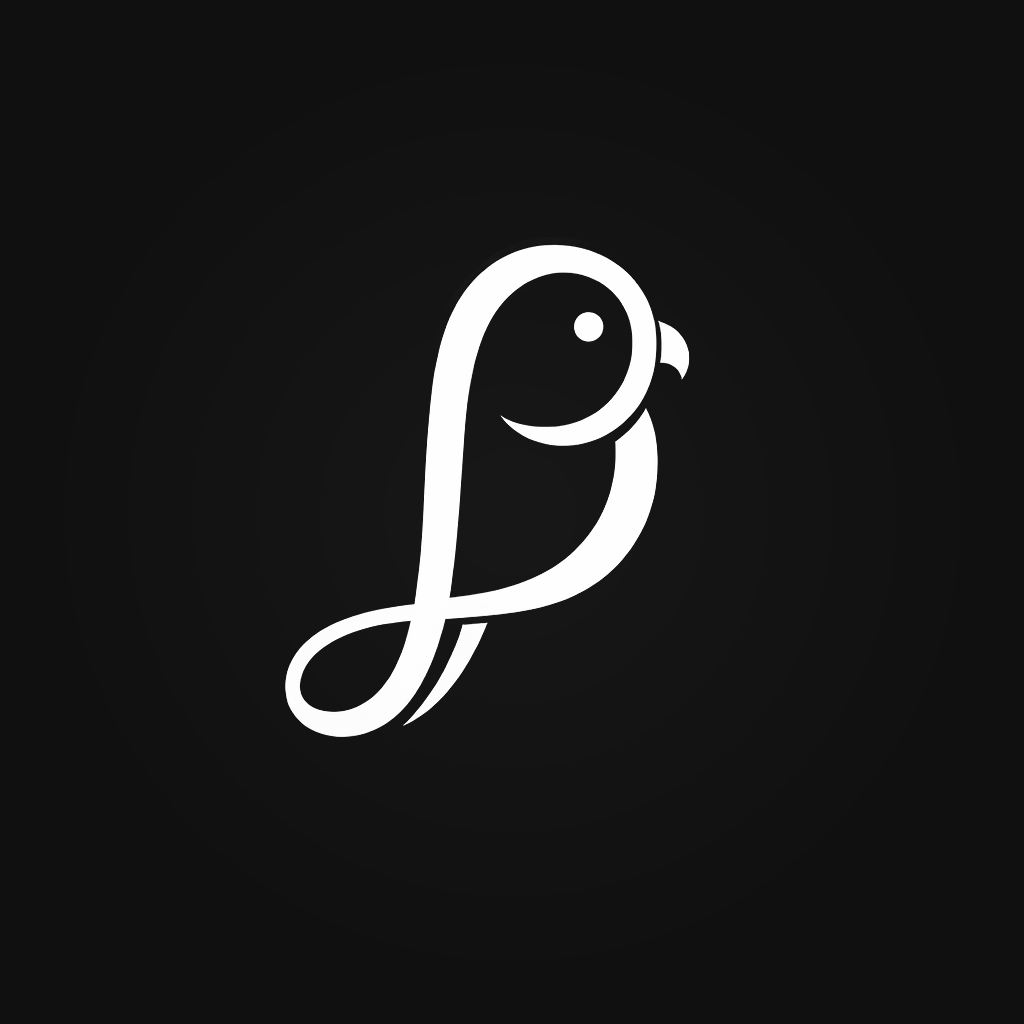
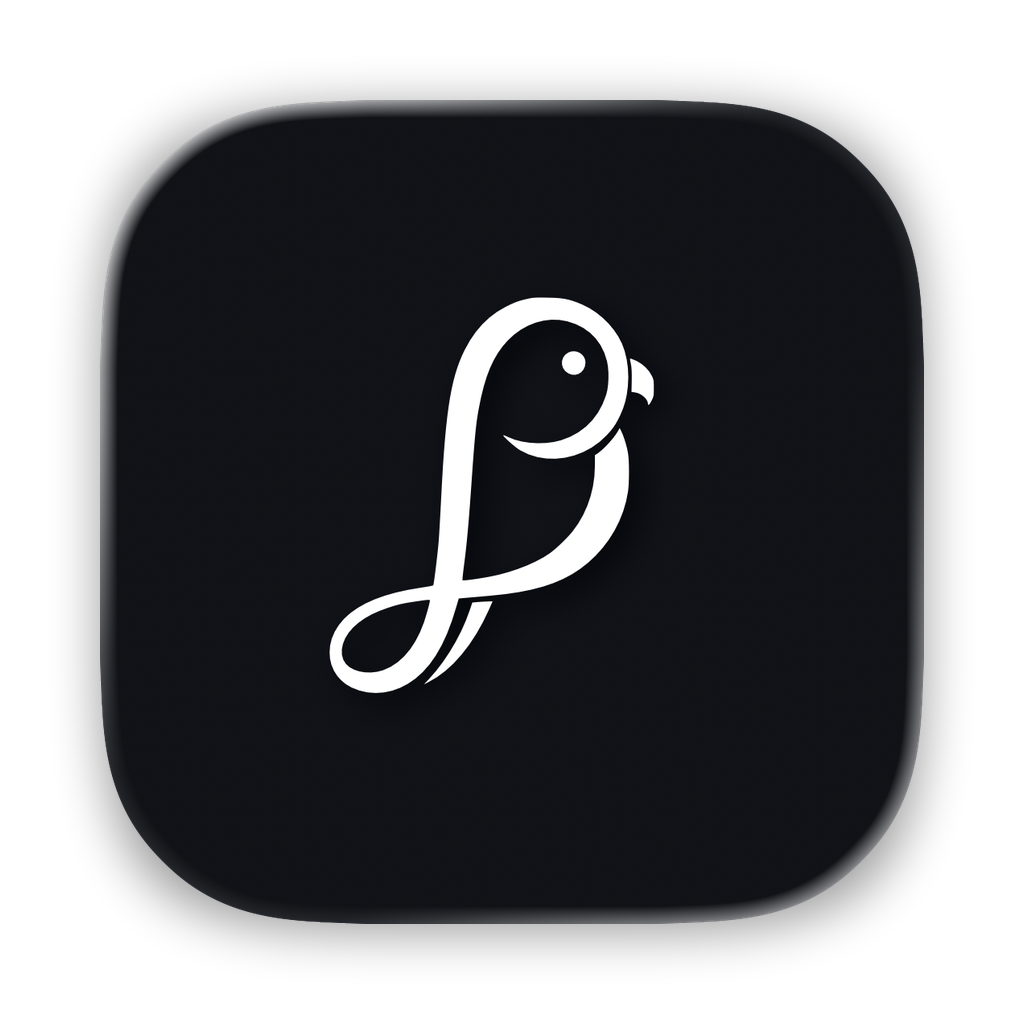
Replace AppIcon with squircled version
Regenerate the macOS app icon with transparent squircle padding, add the Icon Composer source bundle, and clarify the app-icon versus reusable-mark asset provenance.

Pull request: Replace AppIcon with squircled version, add .icon source
Quick context: the current AppIcon shows up too big in the Dock and Cmd+Tab and has square corners, while every other app has the standard rounded squircle. The file in the repo ships as RGB without alpha and without the macOS squircle baked into the artwork, so macOS does not clip or pad it.

<!-- drag the before/after screenshot here -->

I regenerated the icon with Icon Composer using the existing `parakeet-line` mark on Ink. The new `.icns` has the squircle and padding baked in, RGBA with alpha, and matches the size of other standard apps.

### What's in this PR

* `brand-assets/marks/AppIcon.icon/` is the Icon Composer source bundle, kept next to `parakeet-line.svg`. New source of truth for the app icon.
* `Assets/AppIcon.icns` is the regenerated squircled icon. `scripts/dist/build_app_bundle.sh` keeps copying it unchanged, so the build pipeline is untouched.
* `Assets/AppIcon-1024x1024.png` is the matching source PNG with alpha.

### Regenerating later

**With Xcode 26:** drop `brand-assets/marks/AppIcon.icon` into an Asset Catalog. The `actool` from Xcode 26 understands the `.icon` format and produces a proper macOS `.icns` (squircle baked in) automatically. Output replaces `Assets/AppIcon.icns`.

**On Xcode 16.x:** `actool` in 16.x does not handle the new `.icon` format yet and Icon Composer does not export `.icns` directly. Workflow:
1. Open `AppIcon.icon` in Icon Composer, edit the layers.
2. Export the iOS Default 1024 PNG.
[…]

diff --git a/marketing/video/src/components/AppIcon.tsx b/marketing/video/src/components/AppIcon.tsx
@@ -4,8 +4,8 @@ import { Img, staticFile } from 'remotion';
 interface AppIconProps {
   size: number;
   /**
-   * macOS app-icon corner radius is ~22% of icon size by convention.
-   * Disable for the raw square asset (e.g. when stacking inside other shapes).
+   * Optional clipping for compositions that place the app icon on a hard-edged
+   * surface. The source asset already carries transparent macOS icon corners.
    */
   rounded?: boolean;
   /**
@@ -16,17 +16,14 @@ interface AppIconProps {
 }
 
 /**
- * The canonical MacParakeet app icon — white calligraphic parakeet on
- * near-black with a subtle radial vignette, baked into a 1024×1024 PNG
- * (`Assets/AppIcon-1024x1024.png` in the main repo, mirrored into
- * `public/brand/app-icon.png` here).
+ * The MacParakeet macOS app icon — white calligraphic parakeet on near-black,
+ * padded into a transparent 1024×1024 icon source (`Assets/AppIcon-1024x1024.png`
+ * in the main repo, mirrored into `public/brand/app-icon.png` here).
  *
- * Per docs/brand-identity.md this is the canonical illustration — the
- * coral line mark used elsewhere is a vector trace of it. Use AppIcon
- * when you want the product to look like a Mac app the viewer is about
- * to install (closing cards, product feature beats), and the line mark
- * for chrome / wordmark contexts where the bird is one symbol among
- * type.
+ * Use AppIcon when you want the product to look like a Mac app the viewer is
+ * about to install (closing cards, product feature beats), and use the
+ * canonical line mark for chrome / wordmark contexts where the bird is one
+ * symbol among type.
  */
 export const AppIcon: React.FC<AppIconProps> = ({
   size,

diff --git a/docs/brand-identity.md b/docs/brand-identity.md
@@ -31,19 +31,21 @@ bird reads as one continuous gesture, like signing your name.
 4. **Timeless** — no trendy gradients, no 3D effects, no sharp corners
    beyond the beak
 
-## Canonical Asset
+## Canonical Assets
 
-The brand mark ships as a high-resolution white-on-near-black PNG. The PNG
-remains the runtime source of truth; the vector source lives in
-`brand-assets/marks/` for design work that raster can't do (infinite scaling,
-recoloring, poster-scale composition).
+The reusable brand mark and the macOS app icon now have separate source paths.
+Use the mark assets for inline UI, editorial work, and recoloring. Use the app
+icon assets only for Dock, Finder, Cmd+Tab, About, and installer surfaces where
+macOS expects a padded transparent icon shape.
 
 | File | Size | Use |
 |------|------|-----|
-| `Assets/AppIcon-1024x1024.png` | 1024×1024 | Runtime source of truth for the parakeet illustration; reference asset for design work |
-| `Sources/MacParakeet/Resources/parakeet-mark.png` | 1024×1024 | Same PNG copied into the SwiftPM runtime bundle so app code can load it via `Bundle.module` |
+| `brand-assets/marks/parakeet-line.svg` | vector | Canonical reusable vector mark — used everywhere from chrome to Pop tiles. Recolorable via `currentColor`. See `brand-assets/README.md`. |
+| `Sources/MacParakeet/Resources/parakeet-mark.png` | 1024×1024 | Runtime source for inline SwiftUI mark rendering via `Bundle.module`; white-on-near-black so `BreathWaveIcon.brandMark` can convert luminance to alpha. |
+| `brand-assets/marks/AppIcon.icon/` | bundle | Icon Composer source for the macOS app icon. Its bundled `Assets/parakeet-line.svg` is a required vendored copy of `brand-assets/marks/parakeet-line.svg`; keep them byte-for-byte in sync. |
+| `Assets/AppIcon-1024x1024.png` | 1024×1024 | Transparent padded macOS app-icon source image generated from the app icon source bundle; not the raw reusable mark. |
+| `Assets/AppIcon.icns` | multi-size | Shipping macOS icon copied into the app bundle by `scripts/dist/build_app_bundle.sh`. |
 | `Sources/MacParakeet/Resources/menubar-icon.png` / `@2x.png` | 18pt / 36px | Hand-tuned smaller variant for the macOS menu bar; not derived from the 1024px source — separate authored asset |
-| `brand-assets/marks/parakeet-line.svg` | vector | Vector trace of the canonical mark — used everywhere from chrome to Pop tiles. Recolorable via `currentColor`. See `brand-assets/README.md`. |
 
 ### Sizing & Legibility
 
@@ -51,7 +53,7 @@ recoloring, poster-scale composition).
 |---------|------|-------|
 | Menu bar | 18 px | Authored as a dedicated asset; tested target |
 | Inline (assistant avatars, status chips) | 18 pt | Bumped to 18 from 16 because head/eye/tail blur together below ~16 px |
-| Dock / About | 1024 px | Full canonical illustration |
+| Dock / About | 1024 px source, multi-size `.icns` output | Padded transparent macOS app icon, not the raw reusable mark |
 
 16 px is the practical legibility floor: the eye dot becomes a sub-pixel
 speck and the looped tail loses definition. Prefer 18 px and up.
@@ -70,16 +72,20 @@ The mark is consumed at runtime through three paths:
 
 - **Inline SwiftUI** — `BreathWaveLogo(size:tint:opacity:)` wraps
   `BreathWaveIcon.brandMark(pointSize:)` in an `Image` with
-  `.renderingMode(.template)`. Backed by the 1024×1024 parakeet PNG,
-  converted at first access from white-on-near-black to alpha-only via a
-  Rec. 709 luminance → alpha pass (one-shot, process-cached). SwiftUI then
-  downscales to the requested point size with `.interpolation(.high)`.
+  `.renderingMode(.template)`. Backed by
+  `Sources/MacParakeet/Resources/parakeet-mark.png`, converted at first access
+  from white-on-near-black to alpha-only via a Rec. 709 luminance → alpha pass
+  (one-shot, process-cached). SwiftUI then downscales to the requested point
+  size with `.interpolation(.high)`.
 - **Menu bar** — `BreathWaveIcon.menuBarIcon(pointSize:state:)` loads the
   hand-tuned 18 pt PNG, sets `isTemplate = true`, and lets macOS adapt it
   to light/dark menu bars. Recording / processing states overlay a colored
   status dot.
-- **App icon (dock / Finder)** — the 1024×1024 PNG is bundled via
-  `Assets/AppIcon.icns`; macOS handles all sizing.
+- **App icon (Dock / Finder / Cmd+Tab)** —
+  `brand-assets/marks/AppIcon.icon/` is the Icon Composer source,
+  `Assets/AppIcon-1024x1024.png` is the transparent padded 1024 px export, and
+  `Assets/AppIcon.icns` is the shipping multi-size icon. The build script copies
+  the `.icns` unchanged into the app bundle.
 
 > **Note:** `BreathWaveIcon.appIcon(size:)` is a programmatic Core Graphics
 > drawing of an *earlier* "cursive P" mark and is not used by any shipping
@@ -108,13 +114,15 @@ The mark is consumed at runtime through three paths:
 
 ### App Icon (Dock / App Store)
 
-The app icon is the parakeet illustration on a near-black background with
-macOS-standard rounded corners.
+The app icon uses the parakeet mark inside a macOS-specific icon container. The
+Icon Composer source may carry platform icon metadata such as container shadow,
+translucency, and tinted appearance support; those effects belong to the app
+icon container, not to the reusable mark assets above.
 
 ```text
 Background: near-black with a subtle radial vignette toward the center
 Mark: White (#FFFFFF), single-stroke parakeet illustration
-Corner radius: macOS standard (~22% of icon size)
+Shape: transparent padded macOS squircle baked into the 1024 px PNG and .icns
 ```
 
 ## Typography

diff --git a/brand-assets/README.md b/brand-assets/README.md
@@ -29,7 +29,8 @@ betraying it. Two principles govern every artifact in here:
 brand-assets/
 ├── README.md                       you are here
 ├── marks/                          the bird, as vector source
-│   └── parakeet-line.svg           the canonical brand mark — used everywhere
+│   ├── parakeet-line.svg           the canonical brand mark — used everywhere
+│   └── AppIcon.icon/               Icon Composer source for the macOS app icon
 ├── palette/                        the colors
 │   ├── palette.json                machine-readable hex + role + guidance
 │   ├── palette.css                 CSS variables for web
@@ -56,11 +57,12 @@ brand-assets/
 
 ## The mark
 
-There's one canonical mark: `marks/parakeet-line.svg`. It's a calligraphic
-single-stroke parakeet — head, beak, eye dot, body curve, looped tail — traced
-from `Assets/AppIcon-1024x1024.png`. It carries the brand voice (calm,
-confident, minimal) at every size: legible at 18 pt, beautiful at 4096 px,
-strong enough to tile in a Warhol grid and delicate enough for chrome.
+There's one canonical reusable mark: `marks/parakeet-line.svg`. It's a
+calligraphic single-stroke parakeet — head, beak, eye dot, body curve, looped
+tail — traced from the original white-on-near-black parakeet artwork. It carries
+the brand voice (calm, confident, minimal) at every size: legible at 18 pt,
+beautiful at 4096 px, strong enough to tile in a Warhol grid and delicate
+enough for chrome.
 
 The mark uses `fill="currentColor"`. Recolor by setting CSS `color`, by
 swapping `currentColor` for a hex literal, or via `<use color="…">` — pick the
@@ -177,18 +179,29 @@ SVG sources. Requires `librsvg` (`brew install librsvg`).
 
 ## Provenance
 
-The line mark (`parakeet-line.svg`) was traced from the canonical 1024×1024
-PNG (`Assets/AppIcon-1024x1024.png`) using `potrace` after a luminance
-threshold isolated the bird, then re-coordinated into a clean 0..1024
+The line mark (`parakeet-line.svg`) was traced from the original canonical
+1024×1024 white-on-near-black parakeet artwork using `potrace` after a
+luminance threshold isolated the bird, then re-coordinated into a clean 0..1024
 viewBox. Four paths: compound body with eye-hole (fill-rule evenodd), iris dot,
 beak, and the small cheek/tail-curve flourish.
 
-The SVG is independent of `Sources/MacParakeet/Resources/parakeet-mark.png` —
-that PNG remains the runtime asset path and source of truth for the shipping
-app. The vector source lives here for design work that PNG can't do (infinite
-scaling, recoloring, vector-native composition).
+The SVG is independent of `Sources/MacParakeet/Resources/parakeet-mark.png`;
+that PNG remains the app runtime asset for inline mark rendering. The vector
+source lives here for design work that PNG can't do (infinite scaling,
+recoloring, vector-native composition).
+
+The macOS app icon is a separate pipeline. `marks/AppIcon.icon/` is the Icon
+Composer source bundle, `../Assets/AppIcon-1024x1024.png` is the transparent
+padded 1024 px app-icon export, and `../Assets/AppIcon.icns` is the shipping
+multi-size icon. Icon Composer requires the SVG inside the bundle, so
+`marks/AppIcon.icon/Assets/parakeet-line.svg` is a vendored copy of
+`marks/parakeet-line.svg`; keep those two files byte-for-byte in sync.
 
 ## Don'ts (these match `docs/brand-identity.md`)
+
+These rules apply to the reusable mark and composition assets. The macOS app
+icon source bundle may carry platform icon metadata for the container; do not
+copy those effects back onto the reusable mark.
 
 - No gradients, drop shadows, glows, or "glassmorphism" on the mark.
 - No outlines or strokes added on top of the mark — it's already calligraphic.